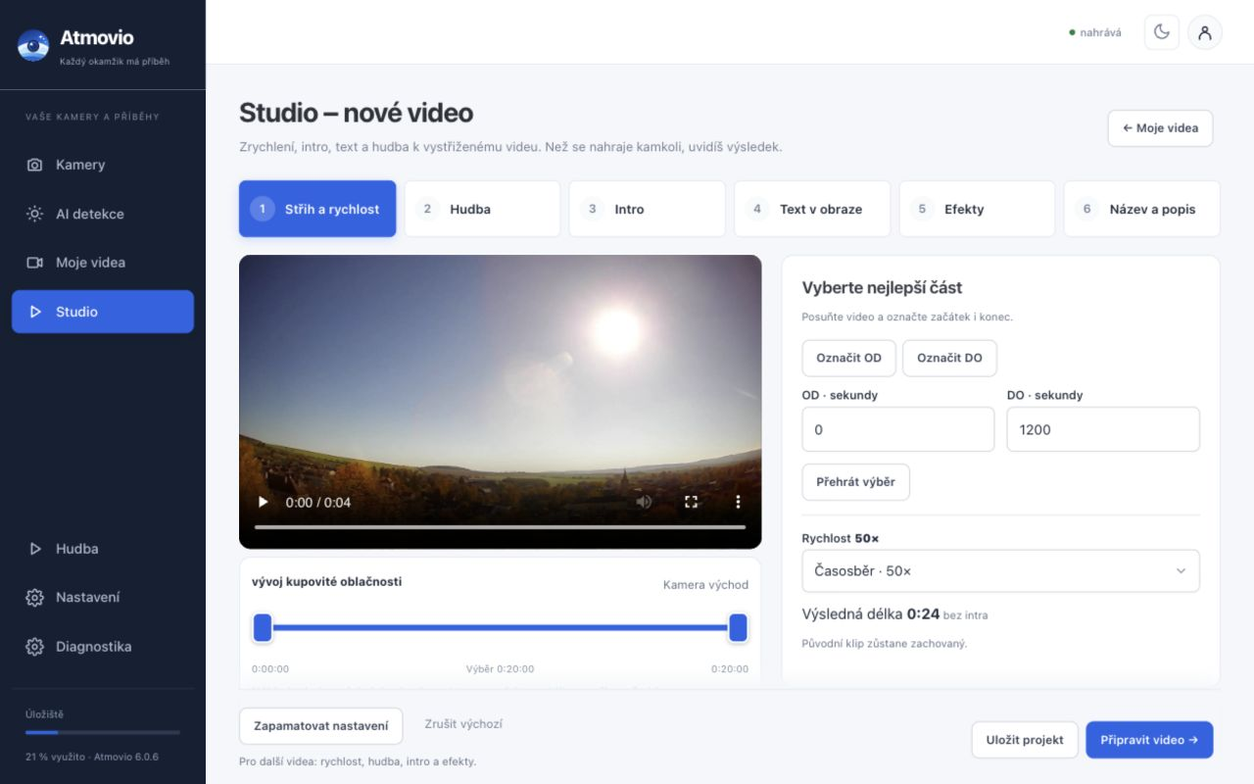
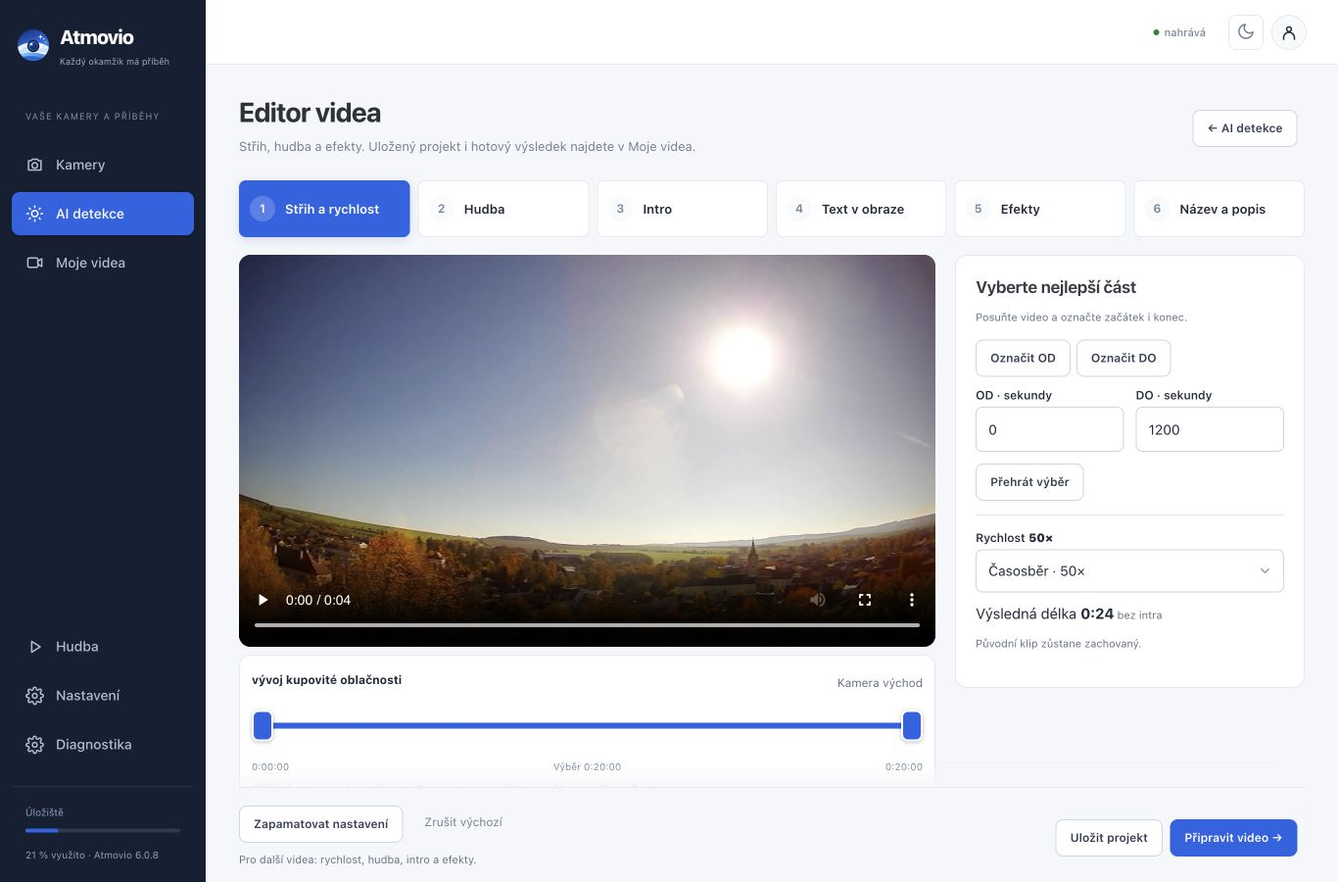
Unify video source selection and open editor directly

diff --git a/src/atmovio/app.py b/src/atmovio/app.py
@@ -58,7 +58,7 @@ CONFIG_FILE = APP_DIR / "config.json"
 DB_FILE = APP_DIR / "atmovio.db"
 LOG_FILE = APP_DIR / "atmovio.log"
 FRIGATE_CONTAINER = "frigate"
-APP_VERSION = "6.0.7"
+APP_VERSION = "6.0.8"
 GITHUB_REPO = "VladimirVecera/atmovio"          # odkud se berou nové verze (GitHub Releases)
 UPDATE_STATE_FILE = APP_DIR / "update-state.json"
 UPDATE_LOG_FILE = APP_DIR / "update.log"
@@ -2854,7 +2854,7 @@ LOGO_SVG = """<svg class="logo" viewBox="0 0 64 64" width="34" height="34" aria-
 
 BASE_CSS = ""  # vzhled je v static/atmovio.css (nad Pico CSS)
 
-NAV_PRIMARY = [("/live", "Kamery", "camera"), ("/moments", "AI detekce", "sun"), ("/youtube", "Moje videa", "video"), ("/studio", "Studio", "play")]
+NAV_PRIMARY = [("/live", "Kamery", "camera"), ("/moments", "AI detekce", "sun"), ("/youtube", "Moje videa", "video")]
 NAV_SETTINGS = [("/cameras", "Kamery", "🎥"), ("/ai", "AI detekce", "☁"),
                 ("/videos/settings", "AI videa", "🎬"), ("/studio/settings", "YouTube videa", "⏩"),
                 ("/storage", "Úložiště a záznamy", "💾"), ("/email", "Upozornění", "✉"),
@@ -3544,7 +3544,7 @@ TEMPLATES["recording_prepared.html"] = """{% extends "base.html" %}{% block acti
 {% else %}<p class="hint">Text můžeš doplnit níže nebo nechat AI vyhodnotit 9 snímků videa.</p>{% endif %}
 {% if v.metadata_status not in ('queued','working','ready') %}<form method="post" action="/recording/{{ v.id }}/metadata"><button class="btn small sec">Navrhnout text z 9 snímků pomocí AI</button></form>{% endif %}
 {% if v.ready and v.metadata_status not in ('queued','working') %}<form method="post" action="/recording/{{ v.id }}/text"><label>Nadpis</label><input name="title" value="{{ v.metadata_title or v.name }}" maxlength="100" required><label>Popis</label><textarea name="description" rows="4" maxlength="4500">{{ v.metadata_description or '' }}</textarea><button class="btn">Uložit text</button></form>{% endif %}
-<div class="actions"><a class="btn sec" href="/videos#v{{ v.id }}">Zpět na AI detekce</a>{% if v.ready %}<a class="btn sec" href="/videos/{{ v.id }}/download">Stáhnout MP4</a><a class="btn sec" href="/studio/new/{{ v.id }}">Otevřít ve Studiu</a>{% endif %}</div></div></section>
+<div class="actions"><a class="btn sec" href="/videos#v{{ v.id }}">Zpět na AI detekce</a>{% if v.ready %}<a class="btn sec" href="/videos/{{ v.id }}/download">Stáhnout MP4</a><a class="btn sec" href="/studio/new/{{ v.id }}">Vytvořit video</a>{% endif %}</div></div></section>
 {% if (not v.ready and not v.stuck and not v.expired) or v.metadata_status in ('queued','working') %}<div x-data="autorefresh(15)"></div>{% endif %}
 {% if merge_sources %}<details class="advanced-panel" id="sources"><summary>Původní klipy před spojením · {{ merge_sources|length }}</summary><p class="hint">Spojené video obsahuje dostupný záznam. Původní klipy zůstávají zde.</p>{% for source in merge_sources %}<a class="overview-row" href="/recording/{{ source.id }}">{{ short_title(source.name,source.camera) }} · {{ source.range_h }}</a>{% endfor %}</details>{% endif %}{% endblock %}"""
 
@@ -3573,12 +3573,12 @@ TEMPLATES["camera.html"] = """{% extends "base.html" %}{% block actions %}<div c
 <p class="player-notice" role="status" x-show="message" x-text="message"></p></div></div></section>
 <details class="advanced-panel"><summary>Další možnosti</summary><a href="/camera/{{ camera }}/recording">Zadat přesné datum a čas</a> · <a href="{{ frigate_ui }}" target="_blank" rel="noopener">Otevřít Frigate</a></details>{% endblock %}"""
 
-TEMPLATES["youtube.html"] = """{% extends "base.html" %}{% block actions %}<a class="btn small sec" href="/studio">Nové video</a>{% endblock %}{% block content %}
+TEMPLATES["youtube.html"] = """{% extends "base.html" %}{% block actions %}<a class="btn small sec" href="/moments">Vytvořit video</a>{% endblock %}{% block content %}
 <nav class="tabs"><a href="/youtube" class="active">Všechna videa</a><a href="/youtube?state=draft">Rozpracovaná</a><a href="/youtube?state=ready">Hotová</a><a href="/youtube?state=published">Na YouTube</a></nav>
 {% include "video_activity.html" %}
 <p class="hint">Zrychlená videa s intrem, hudbou, nadpisem a popisem. Stav YouTube u každého videa ukazuje, zda již bylo publikováno.</p>
 <div class="section-head" id="studio"><h2>Moje videa</h2><span class="hint">s intrem, textem a hudbou · připravená ke stažení{% if studio_auto %} · automatika zapnutá{% endif %}</span></div>
-{% if not studio %}<div class="card"><p class="hint">Začni výběrem klipu v <a href="/videos">AI videích</a>.</p></div>{% endif %}
+{% if not studio %}<div class="card"><p class="hint">Vyberte záznam v <a href="/moments">AI detekci</a> a klikněte na Vytvořit video.</p></div>{% endif %}
 {% if part_groups %}<div class="card"><h2>Průběžné části</h2>{% for g in part_groups %}<a class="overview-row" href="/events/{{ g.id }}/parts"><span><b>{{ g.name }}</b><small>Hlavní video zatím není vytvořené</small></span><span class="badge info">{{ g.parts|length }} částí →</span></a>{% endfor %}</div>{% endif %}
 <div class="gallery videos">
 {% for s in studio %}<div class="shot video">
@@ -3617,10 +3617,10 @@ TEMPLATES["video_activity.html"] = """<section class="video-work" x-data='videoA
 <p class="flash info" x-show="changed" x-cloak>Seznam videí se změnil. <a href="">Obnovit přehled</a></p>
 </section>"""
 
-TEMPLATES["videos.html"] = """{% extends "base.html" %}{% block actions %}<a class="btn small sec" href="/videos/settings">Nastavení ukládání</a>{% endblock %}{% block content %}
+TEMPLATES["videos.html"] = """{% extends "base.html" %}{% block actions %}<div class="actions"><a class="btn small sec" href="/live">Vybrat úsek z kamery</a><a class="btn small sec" href="/videos/settings">Nastavení ukládání</a></div>{% endblock %}{% block content %}
 <nav class="tabs"><a class="active" href="/moments">Uložená videa</a><a href="/moments/discover">Další nálezy AI</a></nav>
 {% include "video_activity.html" %}
-<div class="section-head video-library-head"><div><h2>Videa událostí <span class="badge ok">{{ videos|length }}</span></h2><p class="hint">Od nejnovějšího záznamu. Celá událost v jednom videu.</p></div>
+<div class="section-head video-library-head"><div><h2>Záznamy k úpravě <span class="badge ok">{{ videos|length }}</span></h2><p class="hint">Klipy z AI i ručního výběru, od nejnovějšího. Vytvořit video otevře editor; výsledek najdete v Moje videa.</p></div>
 {% if total_exports %}<details class="more-menu"><summary>Další možnosti</summary><a href="/videos/delete-all">{{ 'Průběh mazání' if deleting else 'Smazat uložené klipy' }}</a></details>{% endif %}</div>
 {% if not videos %}<div class="card empty-videos"><h3>Zatím žádné hotové video</h3><p>Po dokončení se zde objeví celé video události. Vyberte <a href="/live">kameru a část záznamu</a>, nebo zapněte <a href="/ai#kamery">hlídání oblohy</a>.</p></div>{% endif %}
 <div class="gallery videos">
@@ -3722,7 +3722,7 @@ TEMPLATES["history.html"] = """{% extends "base.html" %}{% block actions %}<div 
 {% if video_waiting %}<div x-data="autorefresh(20)"></div>{% endif %}
 {% endblock %}"""
 
-TEMPLATES["studio_new.html"] = """{% extends "base.html" %}{% block actions %}<a class="btn sec" href="/youtube">← Moje videa</a>{% endblock %}{% block content %}
+TEMPLATES["studio_new.html"] = """{% extends "base.html" %}{% block actions %}<a class="btn sec" href="{{ '/youtube' if editing_existing else '/moments#v' ~ export.id }}">← {{ 'Moje videa' if editing_existing else 'AI detekce' }}</a>{% endblock %}{% block content %}
 <form method="post" class="studio-project" style="--studio-aspect:{{ (src.width or 1920)/(src.height or 1080) }}" x-data="studioPreferences({{ 'true' if values.intro and intro else 'false' }},{{ 'true' if values.text_on else 'false' }},{{ 'true' if has_defaults else 'false' }})" @intro-upload="introUploading=$event.detail.busy" @effect-upload="effectUploading=$event.detail.busy" @studio-tab="$el.querySelectorAll('video,audio').forEach(function(media){media.pause()})">
 <input type="hidden" name="project_id" value="{{ values.project_id }}">
 <nav class="editor-tools" aria-label="Vyberte, co chcete upravit">{% for key,label in [('trim','Střih a rychlost'),('music','Hudba'),('intro','Intro'),('text','Text v obraze'),('effects','Efekty'),('title','Název a popis')] %}<button type="button" :class="{active:tab==='{{ key }}'}" :aria-pressed="tab==='{{ key }}'" aria-controls="studio-{{ key }}" @click="tab='{{ key }}';$dispatch('studio-tab')"><span class="tool-number" aria-hidden="true">{{ loop.index }}</span><span>{{ label }}</span></button>{% endfor %}</nav>
@@ -3951,7 +3951,6 @@ TEMPLATES["studio_settings.html"] = """{% extends "base.html" %}{% block actions
 TEMPLATES["camera_cards.html"] = """<div class="camera-grid">
 {% for c in cameras %}<article class="camera-card"><a class="camera-image" href="/camera/{{ c }}" aria-label="Přehrát {{ cam(c) }}"><img src="/live/{{ c }}.jpg?h=720&t={{ now_ts }}" data-refresh="10" alt="Pohled z kamery {{ cam(c) }}" onerror="swImgFail(this)"><span class="camera-badge"><i class="dot {{ 'ok' if fs.cameras.get(c) and fs.cameras[c].fps else 'warn' }}"></i> {{ 'Aktuální snímek' if fs.cameras.get(c) and fs.cameras[c].fps else 'Bez signálu' }}</span><span class="camera-play">{{ icons.play|safe }}</span></a><div class="camera-caption"><div><h2><a href="/camera/{{ c }}">{{ cam(c) }}</a></h2><p>Živý přenos a záznamy{% if c in cfg.ai.cameras and cfg.ai.enabled %} · hlídání oblohy{% endif %}</p></div><a class="ico-btn" aria-label="Nastavení kamery {{ cam(c) }}" href="/cameras/edit/{{ c }}">{{ icons.cog|safe }}</a></div></article>{% else %}<div class="empty-state"><h2>Přidejte první kameru</h2><p>Živý obraz a uložené záznamy budete mít na jednom místě.</p><a href="/discover" class="btn">Najít kameru</a></div>{% endfor %}</div>"""
 
-TEMPLATES["studio_start.html"] = """{% extends "base.html" %}{% block actions %}<a href="/live" class="btn sec">Vybrat úsek z kamery</a>{% endblock %}{% block content %}<div class="gallery videos">{% for v in videos %}<article class="shot video"><a class="thumb" href="/studio/new/{{ v.id }}"><img src="/videos/{{ v.id }}/thumb.jpg" alt="" loading="lazy"><span class="play">+</span><span class="dur">{{ v.duration_h }}</span></a><div class="b"><h3>{{ short_title(v.metadata_title or v.name,v.camera) }}</h3><p class="hint">{{ cam(v.camera) }} · {{ v.range_h }}</p><a class="btn" href="/studio/new/{{ v.id }}">Upravit ve Studiu</a></div></article>{% else %}<div class="empty-state"><h2>Začněte záznamem z kamery</h2><p>Označte OD a DO a uložte klip. Potom přidejte hudbu nebo vytvořte časosběr.</p><a class="btn" href="/live">Otevřít kamery</a></div>{% endfor %}</div>{% endblock %}"""
 
 TEMPLATES["moments_discover.html"] = """{% extends "base.html" %}{% block actions %}<a href="/moments" class="btn sec">Uložená videa</a>{% endblock %}{% block content %}<details class="advanced-panel"><summary>Filtr podle kamery</summary><form method="get"><label>Kamera<select name="camera"><option value="">Všechny kamery</option>{% for c in cameras %}<option value="{{ c }}" {{ 'selected' if camera==c }}>{{ cam(c) }}</option>{% endfor %}</select></label><button class="btn small">Použít</button></form></details><div class="gallery videos">{% for e in moments %}<article class="shot video"><a class="thumb" href="/detection/{{ e.id }}"><img src="/snapshot/{{ e.image }}" alt="" loading="lazy"><span class="play">▶</span></a><div class="b"><h3>{{ e.phenomenon }}</h3><p class="hint">{{ cam(e.camera) }} · {{ e.ts|czdt }}</p><p class="desc2">{{ e.description }}</p><a class="btn small" href="/detection/{{ e.id }}">Prohlédnout okamžik</a></div></article>{% else %}<div class="empty-state"><h2>Zatím žádný zajímavý okamžik</h2><p>Až kamera zachytí něco zajímavého, objeví se to tady.</p></div>{% endfor %}</div><div class="quiet-links">{% if page>1 %}<a href="?page={{ page-1 }}&camera={{ camera }}">← Novější</a>{% endif %}{% if more %}<a href="?page={{ page+1 }}&camera={{ camera }}">Starší →</a>{% endif %}<a href="/history">Technická historie vyhodnocování</a></div>{% endblock %}"""
 
@@ -4048,7 +4047,9 @@ def render(request: Request, tpl: str, title: str, **ctx) -> HTMLResponse:
     if active == "/camera":
         active = "/live"
     if active == "/studio":
-        active = "/studio/settings" if path.startswith("/studio/settings") or path.startswith("/studio/upload") else ("/studio" if path == "/studio" or path.startswith("/studio/new") else "/youtube")
+        active = "/studio/settings" if path.startswith("/studio/settings") or path.startswith("/studio/upload") else "/youtube"
+        if path.startswith("/studio/new/") and not ctx.get("editing_existing"):
+            active = "/moments"
     if active == "/detection":
         active = "/moments"
     if path == "/studio/music":
@@ -6965,10 +6966,12 @@ def preparing_video_exports(videos):
 def studio_source_status(row):
     status, yt = row.get("status"), row.get("yt_status")
     active = status in ("queued", "rendering") or yt in ("queued", "uploading")
-    if status == "rendering":
-        label, tone = "Vytváří se YouTube video", "info"
+    if status == "draft":
+        label, tone = "Rozpracované video · pokračovat", "info"
+    elif status == "rendering":
+        label, tone = "Vytváří se video", "info"
     elif status == "queued":
-        label, tone = "YouTube video čeká na vytvoření", "warn"
+        label, tone = "Video čeká na vytvoření", "warn"
     elif yt == "uploading":
         label, tone = "Nahrává se na YouTube", "info"
     elif yt == "queued":
@@ -6978,11 +6981,11 @@ def studio_source_status(row):
     elif yt == "failed":
         label, tone = "Nahrání na YouTube selhalo", "err"
     elif status == "failed":
-        label, tone = "Tvorba YouTube videa selhala", "err"
+        label, tone = "Tvorba videa selhala", "err"
     elif row.get("ready"):
-        label, tone = "YouTube video připravené", "ok"
+        label, tone = "Hotové video · nenahráno na YouTube", "ok"
     else:
-        label, tone = "YouTube video není dostupné", "warn"
+        label, tone = "Soubor hotového videa není dostupný", "warn"
     return dict(id=row["id"], label=label, tone=tone, active=active)
 
 
@@ -8294,8 +8297,8 @@ def studio_new(request: Request, vid: int, again: int = 0):
                 values.update(title=generated_video_title(proposal["title"]), description=proposal["description"])
         except (ValueError, TypeError):
             pass
-    return render(request, "studio_new.html", "Studio – nové video", export=export, values=values, effects=effects, effect_trash=studio_effects(True), has_defaults=bool(defaults), quick=MUSIC_QUICK, instruments=MUSIC_INSTRUMENTS,
-                  subtitle="Zrychlení, intro, text a hudba k vystřiženému videu. Než se nahraje kamkoli, uvidíš výsledek.", **ctx)
+    return render(request, "studio_new.html", "Editor videa", editing_existing=bool(prev), export=export, values=values, effects=effects, effect_trash=studio_effects(True), has_defaults=bool(defaults), quick=MUSIC_QUICK, instruments=MUSIC_INSTRUMENTS,
+                  subtitle="Střih, hudba a efekty. Uložený projekt i hotový výsledek najdete v Moje videa.", **ctx)
 
 
 @app.post("/studio/new/{vid}")
@@ -10102,9 +10105,8 @@ def moments_page(request: Request):
 
 @app.get('/studio', response_class=HTMLResponse)
 def studio_start(request: Request):
-    cfg = load_config()
-    videos = completed_ai_videos(list_videos(cfg, thumbnails=False))
-    return render(request, 'studio_start.html', 'Studio', videos=videos, subtitle='Vyberte okamžik, ze kterého vytvoříte video.')
+    # Keep bookmarks working without a second source picker.
+    return RedirectResponse("/moments", status_code=303)
 
 
 @app.get('/moments/discover', response_class=HTMLResponse)

diff --git a/tests/video_library.py b/tests/video_library.py
@@ -55,6 +55,10 @@ try:
     a._yt_progress[uid] = 64
     a._yt_ack_time[uid] = a.time.time()
     a._yt_eta[uid] = 120
+    # The shared source library distinguishes drafts, local results and publication.
+    assert a.studio_source_status({'id': 1, 'status': 'draft'})['label'] == 'Rozpracované video · pokračovat'
+    assert a.studio_source_status({'id': 1, 'status': 'ready', 'ready': True})['label'] == 'Hotové video · nenahráno na YouTube'
+    assert a.studio_source_status({'id': 1, 'status': 'ready', 'ready': True, 'yt_status': 'done'})['label'] == 'Nahráno na YouTube'
     with contextlib.ExitStack() as stack:
         stack.enter_context(patch('requests.sessions.Session.request', side_effect=AssertionError('Unexpected network')))
         stack.enter_context(patch('subprocess.run', return_value=subprocess.CompletedProcess([],1,'','Offline fixture')))
@@ -78,8 +82,13 @@ try:
             [v['id'] for v in ordered if v['start_ts'] == 100], reverse=True)
         moments = client.get('/moments').text
         assert moments.index(f'id="v{main}"') < moments.index(f'id="v{manual}"')
-        source_picker = client.get('/studio').text
-        assert source_picker.index(f'/studio/new/{main}') < source_picker.index(f'/studio/new/{manual}')
+        legacy_picker = client.get('/studio', follow_redirects=False)
+        assert legacy_picker.status_code == 303 and legacy_picker.headers['location'] == '/moments'
+        assert client.get('/studio').text == moments
+        assert 'href="/studio"' not in moments and 'Vybrat úsek z kamery' in moments
+        assert f'href="/studio/new/{main}"' in moments and f'href="/studio/new/{manual}"' in moments
+        my_videos = client.get('/youtube').text
+        assert 'href="/moments">Vytvořit video</a>' in my_videos and 'href="/studio"' not in my_videos
         for eid in [part,working,missing,zero,open_part,orphan_part]:
             assert f'id="v{eid}"' not in gallery
         assert 'Průběžné části' not in page.text and '/parts' not in page.text

diff --git a/tests/redesign.py b/tests/redesign.py
@@ -108,6 +108,13 @@ try:
     with patch.object(a,'frigate_exports',return_value={'source':{'video_path':str(source)}}),patch.object(a,'frigate_media_path',return_value=source),patch.object(a,'ffprobe_info',return_value={'duration':100,'width':640,'height':360,'fps':25}),patch.object(a,'studio_kick'),patch.object(a,'run',return_value=(1,'')):
         r=client.get(f'/studio/new/{eid}?again={sid}')
         assert r.status_code==200 and 'value="120.0"' in r.text and 'value="subscribe" selected' in r.text
+        assert '<h1>Editor videa</h1>' in r.text and 'href="/youtube">← Moje videa</a>' in r.text
+        assert 'class="active" href="/youtube"' in r.text and 'href="/studio"' not in r.text
+        new_editor = client.get(f'/studio/new/{eid}').text
+        assert f'href="/moments#v{eid}">← AI detekce</a>' in new_editor
+        assert 'class="active" href="/moments"' in new_editor
+        # A missing/mismatched previous project must behave like a new video.
+        assert f'href="/moments#v{eid}">← AI detekce</a>' in client.get(f'/studio/new/{eid}?again=99999').text
         with a.db() as con:
             con.execute("UPDATE exports SET name='Kamera východ 28.10. 03:58 – vývoj kupovité oblačnosti' WHERE id=?",(eid,))
             con.execute("UPDATE studio_videos SET title='můj vlastní název NASA' WHERE id=?",(sid,))

diff --git a/docs/cs/verze-6.0.md b/docs/cs/verze-6.0.md
@@ -1,6 +1,6 @@
-# Atmovio 6.0.7
+# Atmovio 6.0.8
 
-Hlavní nabídka má čtyři místa: **Kamery, AI detekce, Moje videa a Studio**. Hudba, nastavení a diagnostika jsou ve spodní části nabídky. Technické podklady AI zůstávají v rozbalitelných detailech.
+Hlavní nabídka má tři místa: **Kamery, AI detekce a Moje videa**. Záznam vyberete v **AI detekci** a tlačítkem **Vytvořit video** otevřete editor. Rozpracované i hotové výsledky jsou v **Moje videa**. Samostatný výběr ve Studiu je sloučený s AI detekcí; staré odkazy dál fungují. Hudba, nastavení a diagnostika jsou ve spodní části nabídky. Technické podklady AI zůstávají v rozbalitelných detailech.
 
 Živý přenos i záznam zachovávají skutečný poměr stran kamery. Velikost obrazu se přizpůsobuje společně s časovou osou výšce obrazovky.
 
@@ -10,9 +10,11 @@ Kliknutím na náhled otevřete živý přenos. Pod přehrávačem vyberte den a
 
 Jeden výběr může mít nejvýše šest hodin. Mezery na ose znamenají chybějící záznam. U výběru s mezerou lze zkrátit rozsah nebo výslovně potvrdit uložení dostupných částí. Časová osa při přehrávání zohledňuje přeskočené výpadky. Dostupná minulost závisí na uchovávání záznamů a volném místě.
 
-## AI detekce a Studio
+## Od AI detekce k hotovému videu
 
-AI detekce ukazují hotové klipy od nejnovějšího záznamu, bez ohledu na datum vytvoření či spojení souboru. Další nálezy AI obsahují vybraná hodnocení AI. Surová historie a fotografie slouží hlavně při hledání problémů.
+AI detekce jsou společný výběr záběrů pro editor. Ukazují uložené klipy od nejnovějšího záznamu, bez ohledu na datum vytvoření či spojení souboru. Další nálezy AI obsahují vybraná hodnocení AI. Surová historie a fotografie slouží hlavně při hledání problémů.
+
+![Společný výběr klipů a přímé otevření editoru](../img/v6/detections.png)
 
 Překrývající se automatické klipy stejné kamery se spojují do jednoho rozsahu, nejvýše šest hodin. Například 10:00–12:20, 10:50–13:00 a 12:00–13:30 vytvoří 10:00–13:30. Staré klipy se skryjí až po dokončení spojeného videa. Pokud původní záznam už chybí, zůstanou původní klipy dostupné. Zdroje uložených projektů se automatickým úklidem neodstraňují; prostor lze uvolnit ručně.
 
@@ -28,7 +30,7 @@ Hudební knihovna nabízí **Smazat skladbu** i **Smazat vše**. Skladby se pře
 
 ## Aktualizace a diagnostika
 
-Ve starší instalaci otevřete **Nastavení → Systém → Aktualizace**, klikněte na **Zkontrolovat teď** a potom **Nainstalovat verzi 6.0.7**. Aktualizátor stáhne instalační soubor z GitHub Releases a ověří kontrolní součet. Stejnou cestou budou dostupné další vydané opravy.
+Ve starší instalaci otevřete **Nastavení → Systém → Aktualizace**, klikněte na **Zkontrolovat teď** a potom **Nainstalovat verzi 6.0.8**. Aktualizátor stáhne instalační soubor z GitHub Releases a ověří kontrolní součet. Stejnou cestou budou dostupné další vydané opravy.
 
 Aktualizátor stáhne Frigate 0.18.2 a ověří kopii konfigurace za běhu staré verze. Před přepnutím zálohuje konfiguraci i zastavenou databázi. Během restartu vznikne krátká mezera v nahrávání. Nová verze musí potvrdit API a obraz dříve dostupných kamer; při selhání se obnoví původní Frigate i jeho databáze. Záznamy na datovém disku se nepřesouvají.
 

diff --git a/docs/v6.md b/docs/v6.md
@@ -1,6 +1,6 @@
-# Atmovio 6.0.7 upgrade notes
+# Atmovio 6.0.8 upgrade notes
 
-The new workspace groups everyday work into Cameras, AI Detections, My Videos and Studio. Clips are ordered by recording start time, newest first, even when older footage is exported or merged later. Advanced AI evidence, filters and processing details are collapsed. The interface remains Czech.
+The main navigation has three destinations: Cameras, AI Detections and My Videos. Choose a clip in AI Detections and click **Vytvořit video** to open the editor; drafts and finished videos live in My Videos. The duplicate Studio source picker is merged into AI Detections, and old links redirect there. Clips are ordered by recording start time, newest first, even when older footage is exported or merged later. Advanced AI evidence, filters and processing details are collapsed. The interface remains Czech.
 
 - Camera playback uses HLS for live view and recorded video. The player follows the actual video aspect ratio and fits the complete image with its timeline on shorter screens. Mark OD–DO on the device-local timeline to save up to six hours. Gaps remain visible; saving available footage across an outage requires an explicit checkbox. Playback maps elapsed media time back to the recording clock.
 - Overlapping automatic clips from one camera are joined into a bounded range. Old clips stay available until the replacement is ready; missing source recordings prevent consolidation. Sources referenced by saved Studio projects are retained by automatic cleanup.
@@ -14,4 +14,4 @@ In **Efekty → Spravovat animace**, remove animations individually or in bulk. 
 
 See the [Czech walkthrough](cs/verze-6.0.md) for the full user flow, and [installation](install.md) for requirements.
 
-Update older installations through **Nastavení → Systém → Aktualizace → Zkontrolovat teď → Nainstalovat verzi 6.0.7**. The updater downloads the release asset and verifies its checksum. Studio switches to a full-width music or intro workspace when that tool is selected; the source video stays in the trimming tool.
+Update older installations through **Nastavení → Systém → Aktualizace → Zkontrolovat teď → Nainstalovat verzi 6.0.8**. The updater downloads the release asset and verifies its checksum. Studio switches to a full-width music or intro workspace when that tool is selected; the source video stays in the trimming tool.

diff --git a/README.cs.md b/README.cs.md
@@ -8,7 +8,7 @@
 
 - **Sledujte a vraťte se v čase.** Otevřete kameru, projděte záznam a označením OD–DO uložte klip.
 - **Zachovejte zajímavé okamžiky.** Volitelné hlídání oblohy hledá události. Překrývající se automatické klipy ze stejné kamery spojí, pokud je původní záznam dostupný.
-- **Vytvořte video.** Vyberte střih, rychlost, hudbu, intro, text nebo výzvu k odběru a sdílení. Projekt můžete uložit a později znovu upravit.
+- **Vytvořte video.** V AI detekci vyberte klip a otevřete editor. Nastavte střih, rychlost, hudbu, intro, text nebo výzvu k odběru a sdílení. Projekt můžete uložit a později znovu upravit.
 - **Sdílejte hotový výsledek.** Pusťte si náhled, stáhněte MP4 nebo video nahrajte na svůj YouTube kanál.
 
 <details><summary>Podívat se na video editor</summary>
@@ -28,7 +28,7 @@ sudo bash install.sh
 
 Po instalaci otevřete vypsanou adresu. Rozhraní je česky. Nahrávání funguje bez AI účtu; pro cloudové AI je potřeba vlastní klíč poskytovatele a jeho služby mohou být placené.
 
-**Atmovio 6.0.7** obsahuje Frigate 0.18.2, ověření konfigurace a zálohu pro návrat při chybě. Starší instalaci aktualizujete v **Nastavení → Systém → Aktualizace → Zkontrolovat teď**. Obrázky používají ukázková data. [Co vědět před aktualizací →](docs/cs/verze-6.0.md)
+**Atmovio 6.0.8** obsahuje Frigate 0.18.2, ověření konfigurace a zálohu pro návrat při chybě. Starší instalaci aktualizujete v **Nastavení → Systém → Aktualizace → Zkontrolovat teď**. Obrázky používají ukázková data. [Co vědět před aktualizací →](docs/cs/verze-6.0.md)
 
 ## Další informace
 

diff --git a/README.md b/README.md
@@ -8,7 +8,7 @@
 
 - **Watch and rewind.** Open a camera, explore the recording timeline and save an OD–DO selection.
 - **Keep interesting moments.** Optional AI sky watching finds events; overlapping automatic clips from the same camera are combined when the source recording is available.
-- **Make a video.** Trim, change speed, choose music and intro, add text or a subscribe/share callout. Save a project and edit it again later.
+- **Make a video.** Choose a clip in AI Detections to open the editor. Trim, change speed, choose music and intro, add text or a subscribe/share callout. Save a project and edit it again later.
 - **Share when ready.** Preview the finished video, download MP4 or upload to your YouTube channel.
 
 <details><summary>See the video editor</summary>
@@ -28,7 +28,7 @@ sudo bash install.sh
 
 Open the address shown by the installer. The interface is currently in Czech. Recording works without an AI account; cloud AI features require your own provider key and may incur charges.
 
-**Atmovio 6.0.7** includes Frigate 0.18.2, configuration validation and rollback backups. Update an existing installation in **Settings → System → Updates → Check now** (the interface is in Czech). Screenshots use demonstration data. See the [upgrade notes](docs/v6.md).
+**Atmovio 6.0.8** includes Frigate 0.18.2, configuration validation and rollback backups. Update an existing installation in **Settings → System → Updates → Check now** (the interface is in Czech). Screenshots use demonstration data. See the [upgrade notes](docs/v6.md).
 
 ## Learn more
 

diff --git a/CHANGELOG.md b/CHANGELOG.md
@@ -2,6 +2,12 @@
 
 All notable changes to Atmovio (versions ≤ 3.4 were released under the name SkyWatch). Versions correspond to `APP_VERSION` in `src/atmovio/app.py`.
 
+## 6.0.8 – 2026-10-28 – one source library, direct video editing
+
+- Merge the duplicate Studio source picker into AI Detections and remove its sidebar entry. Existing `/studio` bookmarks redirect to the shared library.
+- Open the editor directly from a clip, keep manual camera selection available and return new edits to their source. Drafts and finished videos remain in My Videos with their existing settings and publishing status.
+- Point New Video to the shared library, distinguish drafts from local results and YouTube uploads, and update navigation screenshots and upgrade notes.
+
 ## 6.0.7 – 2026-10-28 – camera playback aspect ratio
 
 - Keep the live and archive player frame at the stream's actual aspect ratio, including when switching recordings or changing stream dimensions.
